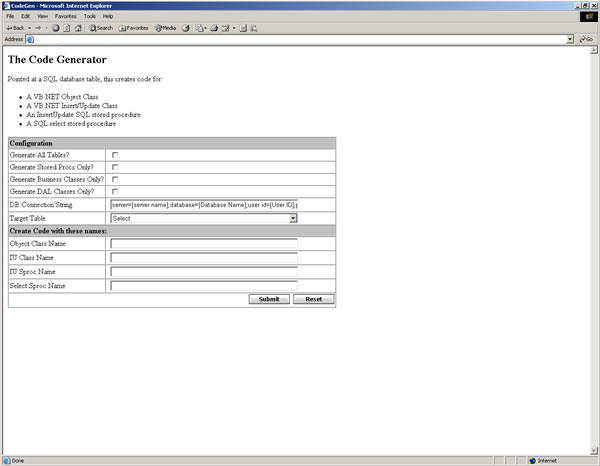
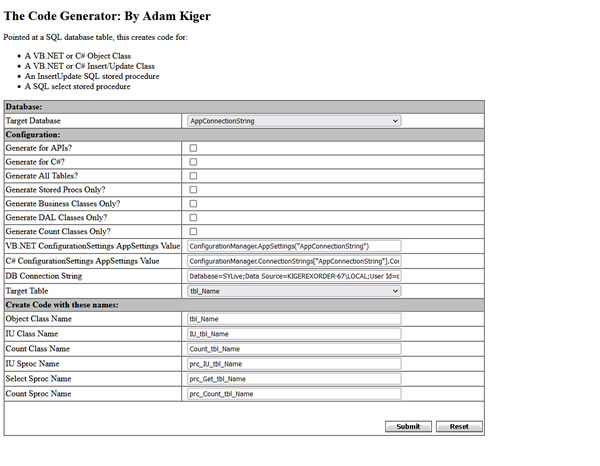
full

diff --git a/README.md b/README.md
@@ -17,6 +17,7 @@ Files that I will be talking about in this article and also included in this pro
 - Web.config
 - Classes.vb
 - IU.vb
+- Count.vb
 - Funcs.vb
 - Default.aspx/Default.aspx.vb
 
@@ -58,9 +59,26 @@ This file is where I keep my generated business classes: This is where I will la
 
 ```vb.net
 Public Class tbl_Name
-    Public ID As String
-    Public FirstName As String
-    Public LastName As String
+
+    Public ID As String 
+    Public FirstName As String 
+    Public LastName As String 
+    Public JSONData As String 
+
+    Public Function xCount() As Integer
+        Dim output As Integer
+        Dim generic As New Count_Database.Count_tbl_Name
+        With generic
+            .ID = ID
+            .FirstName = FirstName
+            .LastName = LastName
+        End With
+
+        generic.ExecuteProc()
+        output = generic.RetVal
+        Return output
+        generic = Nothing
+    End Function
 
     Public Function save() As Integer
         Dim output As Integer
@@ -70,6 +88,7 @@ Public Class tbl_Name
             .FirstName = FirstName
             .LastName = LastName
         End With
+
         generic.ExecuteProc()
         output = generic.RetVal
         Return output
@@ -77,56 +96,83 @@ Public Class tbl_Name
     End Function
 
     Public Function load()
-        Dim sqlConn As New SqlConnection(ConfigurationSettings.AppSettings("AppConnectionString"))
-        Dim sqlCmd As New SqlClient.SqlCommand("[prc_Get_tbl_Name]", sqlConn)
+        Dim sqlConn As New SqlConnection(ConfigurationManager.AppSettings("AppConnectionString"))
+        Dim sqlCmd As New SqlClient.SqlCommand("[dbo].[prc_Get_tbl_Name]", sqlConn)
         With sqlCmd
             .CommandType = CommandType.StoredProcedure
-            .Parameters.Add(New SqlClient.SqlParameter("@ID", SqlDbType.Int)).Value = ID
-            .Parameters.Add(New SqlClient.SqlParameter("@FirstName", SqlDbType.VarChar, 50)).Value = FirstName
-            .Parameters.Add(New SqlClient.SqlParameter("@LastName", SqlDbType.VarChar, 50)).Value = LastName
+            .Parameters.Add(New SqlClient.SqlParameter("@ID",SqlDbType.int)).Value = ID
+            .Parameters.Add(New SqlClient.SqlParameter("@FirstName",SqlDbType.varchar, 50)).Value = FirstName
+            .Parameters.Add(New SqlClient.SqlParameter("@LastName",SqlDbType.varchar, 50)).Value = LastName
         End With
         Dim DataReader As SqlDataReader
         Try
             sqlCmd.Connection.Open()
             DataReader = sqlCmd.ExecuteReader()
+
             Do While DataReader.Read()
-                If Not IsDBNull(DataReader.Item("ID")) Then
-                    ID = DataReader.Item("ID")
+                If Not DataReader.Item("ID") Is Nothing Then
+                     If Not IsDBNull(DataReader.Item("ID")) Then
+                        ID = DataReader.Item("ID")
+                     End If
                 End If
-                If Not IsDBNull(DataReader.Item("FirstName")) Then
-                    FirstName = DataReader.Item("FirstName")
+                If Not DataReader.Item("FirstName") Is Nothing Then
+                     If Not IsDBNull(DataReader.Item("FirstName")) Then
+                        FirstName = DataReader.Item("FirstName")
+                     End If
                 End If
-                If Not IsDBNull(DataReader.Item("LastName")) Then
-                    LastName = DataReader.Item("LastName")
+                If Not DataReader.Item("LastName") Is Nothing Then
+                     If Not IsDBNull(DataReader.Item("LastName")) Then
+                        LastName = DataReader.Item("LastName")
+                     End If
                 End If
             Loop
         Catch ex As System.Exception
             Throw New System.Exception(ex.ToString())
         Finally
             If sqlConn.State = Data.ConnectionState.Open Then
-                sqlConn.Close()
+            sqlConn.Close()
             End If
         End Try
     End Function
 
-End Class
+
+End Class 
+
 ```
 
 I'm sure at some point someone is going to cut this stored procedure down to size, but I have yet to run into a resource problem, even with over 50,000 concurrent sessions.
 
 ```tsql
-CREATE PROCEDURE prc_Get_tbl_Name
+if exists (select * from dbo.sysobjects where id = object_id(N'[dbo].[prc_Get_tbl_Name]') and OBJECTPROPERTY(id, N'IsProcedure') = 1)
+drop procedure [dbo].[prc_Get_tbl_Name]
+GO
+
+SET QUOTED_IDENTIFIER ON
+GO
+SET ANSI_NULLS ON
+GO
+
+CREATE PROCEDURE  [dbo].[prc_Get_tbl_Name]
 @ID AS int = NULL, 
 @FirstName AS varchar(50) = NULL, 
 @LastName AS varchar(50) = NULL 
 AS
 Declare @WhereClause as varchar(8000)
-SELECT @WhereClause = 'SELECT * FROM tbl_Name WHERE 1 = 1 '
-if DataLength(@ID) > 0 SELECT @WhereClause = @WhereClause + ' AND ' SELECT @WhereClause = case @ID when isnull(@ID,'') then @WhereClause + ' ID = ' + CONVERT(varchar,@ID) else @WhereClause end
-if DataLength(@FirstName) > 0 SELECT @WhereClause = @WhereClause + ' AND ' SELECT @WhereClause = case @FirstName when isnull(@FirstName,'') then @WhereClause + ' FirstName = ' + CONVERT(varchar,@FirstName) else @WhereClause end
-if DataLength(@LastName) > 0 SELECT @WhereClause = @WhereClause + ' AND ' SELECT @WhereClause = case @LastName when isnull(@LastName,'') then @WhereClause + ' LastName = ' + CONVERT(varchar,@LastName) else @WhereClause  end
+SELECT  @WhereClause =  'SELECT * FROM [dbo].[tbl_Name] WHERE 1 = 1 '
+if DataLength(@ID) > 0 SELECT @WhereClause = @WhereClause + ' AND '
+SELECT  @WhereClause = case @ID when isnull(@ID,'') then  @WhereClause + ' ID = ' + CONVERT(varchar,@ID) else @WhereClause end
+if DataLength(@FirstName) > 0 SELECT @WhereClause = @WhereClause + ' AND '
+SELECT  @WhereClause = case @FirstName when isnull(@FirstName,'') then  @WhereClause + ' FirstName LIKE ''%' + CONVERT(varchar(50),@FirstName) + '%''' else @WhereClause end
+if DataLength(@LastName) > 0 SELECT @WhereClause = @WhereClause + ' AND '
+SELECT  @WhereClause = case @LastName when isnull(@LastName,'') then  @WhereClause + ' LastName LIKE ''%' + CONVERT(varchar(50),@LastName) + '%''' else @WhereClause end
 exec(@WhereClause)
 GO
+
+SET QUOTED_IDENTIFIER ON
+GO
+SET ANSI_NULLS ON
+GO
+
 ```
 
 ## 3. IU
@@ -134,68 +180,159 @@ GO
 This file is where I keep my generated data access layer classes: When I call the save() function in the generated business class, this class is called. Here is an example of the generated data access layer class and the generated Insert/Update stored procedure it references:
 
 ```vb.net
-Public NotInheritable Class IU_tbl_Name
+Public NotInheritable Class IU_tbl_Name 
     Public RetVal As String
-    Public ID As String
-    Public FirstName As String
-    Public LastName As String
-    Public Function ExecuteProc()
-        Dim sqlConn As New SqlConnection(ConfigurationSettings.AppSettings("AppConnectionString"))
-        Dim sqlCmd As New SqlClient.SqlCommand("[prc_IU_tbl_Name]", sqlConn)
-        Dim output_value As SqlParameter
-        With sqlCmd
-            .CommandType = CommandType.StoredProcedure
-            output_value = .Parameters.Add(New SqlClient.SqlParameter("@RetVal", SqlDbType.Int))
-            output_value.Direction = ParameterDirection.Output
-            .Parameters.Add(New SqlClient.SqlParameter("@ID", SqlDbType.int)).Value = ID
-            .Parameters.Add(New SqlClient.SqlParameter("@FirstName", SqlDbType.varchar, 50)).Value = FirstName
-            .Parameters.Add(New SqlClient.SqlParameter("@LastName", SqlDbType.varchar, 50)).Value = LastName
-        End With
-        Try
-            sqlCmd.Connection.Open()
-            sqlCmd.ExecuteReader()
-        Catch ex As System.Exception
-            Throw New System.Exception(ex.ToString())
-        Finally
-            If IsDBNull(output_value.Value) Then
-                RetVal = ID
-            Else
-                RetVal = output_value.Value
-            End If
-            If sqlConn.State = Data.ConnectionState.Open Then
-                sqlConn.Close()
-            End If
-        End Try
-    End Function
+    Public ID As String 
+    Public FirstName As String 
+    Public LastName As String 
+    Public Function ExecuteProc() 
+	    Dim sqlConn As New SqlConnection(ConfigurationManager.AppSettings("AppConnectionString")) 
+	    Dim sqlCmd As New SqlClient.SqlCommand("[dbo].[prc_IU_tbl_Name]", sqlConn) 
+	    Dim output_value As SqlParameter 
+	    With sqlCmd 
+		    .CommandType = CommandType.StoredProcedure 
+		    output_value = .Parameters.Add(New SqlClient.SqlParameter("@RetVal", SqlDbType.Int)) 
+		    output_value.Direction = ParameterDirection.Output 
+            .Parameters.Add(New SqlClient.SqlParameter("@ID",SqlDbType.int)).Value = ID
+            .Parameters.Add(New SqlClient.SqlParameter("@FirstName",SqlDbType.varchar, 50)).Value = FirstName
+            .Parameters.Add(New SqlClient.SqlParameter("@LastName",SqlDbType.varchar, 50)).Value = LastName
+        End With 
+        Try 
+	        sqlCmd.Connection.Open() 
+	        sqlCmd.ExecuteReader() 
+        Catch ex As System.Exception 
+	        Throw New System.Exception(ex.ToString()) 
+        Finally 
+	        If IsDBNull(output_value.Value) Then 
+		        RetVal = ID 
+	        Else 
+		        RetVal = output_value.Value 
+	        End If 
+	        If sqlConn.State = Data.ConnectionState.Open Then 
+		        sqlConn.Close() 
+	        End If 
+        End Try 
+    End Function 
 End Class
+
+
 ```
 
 ```tsql
-    CREATE PROCEDURE prc_IU_tbl_Name
-        @ID AS int = NULL, 
-        @FirstName AS varchar(50) = NULL, 
-        @LastName AS varchar(50) = NULL, 
-        @RetVal int OUTPUT 
-    AS
-    SET NOCOUNT ON
-    IF EXISTS(SELECT * FROM tbl_Name WHERE ID = @ID) 
-    BEGIN 
-        UPDATE tbl_Name
-        Set FirstName = isNull(@FirstName, FirstName),LastName = isNull(@LastName, LastName)
-        WHERE ID = @ID 
-        Return (0)
-    End
-    ELSE 
-    BEGIN 
-        INSERT INTO tbl_Name
-        (FirstName, LastName)
-        VALUES (IsNull(@FirstName, ''), IsNull(@LastName, ''))
-        SET @RetVal = @@IDENTITY
-    End
-    GO
+if exists (select * from dbo.sysobjects where id = object_id(N'[dbo].[prc_IU_tbl_Name]') and OBJECTPROPERTY(id, N'IsProcedure') = 1)
+drop procedure [dbo].[prc_IU_tbl_Name]
+GO
+
+SET QUOTED_IDENTIFIER ON
+GO
+SET ANSI_NULLS ON
+GO
+
+CREATE PROCEDURE [dbo].[prc_IU_tbl_Name]
+@ID AS int = NULL, 
+@FirstName AS varchar(50) = NULL, 
+@LastName AS varchar(50) = NULL, 
+@RetVal int OUTPUT 
+AS
+SET NOCOUNT ON
+IF EXISTS(SELECT * FROM [dbo].[tbl_Name] WHERE ID = @ID) 
+ BEGIN 
+    UPDATE  [dbo].[tbl_Name]
+    Set FirstName = isNull(@FirstName, FirstName),LastName = isNull(@LastName, LastName)
+    WHERE ID = @ID 
+    Return (0)
+End
+ELSE 
+ BEGIN 
+    INSERT INTO  [dbo].[tbl_Name]
+    (FirstName, LastName)
+    VALUES (IsNull(@FirstName, NULL),IsNull(@LastName, NULL))
+    SET @RetVal = @@IDENTITY
+End
+GO
+
+SET QUOTED_IDENTIFIER ON
+GO
+SET ANSI_NULLS ON
+GO
 ```
 
-## 4. Funcs
+## 4. Count
+
+This file is where I keep my generated counting class: When I call the save() function in the generated business class, this class is called. Here is an example of the generated data access layer class and the generated Insert/Update stored procedure it references:
+
+```vb.net
+Public NotInheritable Class Count_tbl_Name 
+
+    Public RetVal As String
+    Public ID As String 
+    Public FirstName As String 
+    Public LastName As String 
+
+    Public Function ExecuteProc() 
+	    Dim sqlConn As New SqlConnection(ConfigurationManager.AppSettings("AppConnectionString")) 
+	    Dim sqlCmd As New SqlClient.SqlCommand("[dbo].[prc_Count_tbl_Name]", sqlConn) 
+	    With sqlCmd 
+		    .CommandType = CommandType.StoredProcedure 
+            .Parameters.Add(New SqlClient.SqlParameter("@ID",SqlDbType.int)).Value = ID
+            .Parameters.Add(New SqlClient.SqlParameter("@FirstName",SqlDbType.varchar, 50)).Value = FirstName
+            .Parameters.Add(New SqlClient.SqlParameter("@LastName",SqlDbType.varchar, 50)).Value = LastName
+        End With 
+        Dim DataReader As SqlDataReader 
+        Try 
+	        sqlCmd.Connection.Open() 
+	        DataReader = sqlCmd.ExecuteReader() 
+            Do While DataReader.Read()
+                If Not IsDBNull(DataReader.Item("ReturnCount")) Then
+                    RetVal = DataReader.Item("ReturnCount")
+                Else
+                    RetVal = 0
+                End If
+            Loop
+        Catch ex As System.Exception 
+	        Throw New System.Exception(ex.ToString()) 
+        Finally 
+	        If sqlConn.State = Data.ConnectionState.Open Then 
+		        sqlConn.Close() 
+	        End If 
+        End Try 
+    End Function 
+End Class 
+```
+
+```tsql
+if exists (select * from dbo.sysobjects where id = object_id(N'[dbo].[prc_Count_tbl_Name]') and OBJECTPROPERTY(id, N'IsProcedure') = 1)
+drop procedure [dbo].[prc_Count_tbl_Name]
+GO
+
+SET QUOTED_IDENTIFIER ON
+GO
+SET ANSI_NULLS ON
+GO
+
+CREATE PROCEDURE  prc_Count_tbl_Name
+@ID AS int = NULL, 
+@FirstName AS varchar(50) = NULL, 
+@LastName AS varchar(50) = NULL 
+AS
+Declare @WhereClause as varchar(8000)
+SELECT  @WhereClause =  'SELECT Count(*) As ReturnCount FROM [dbo].[tbl_Name] WHERE 1 = 1 '
+if DataLength(@ID) > 0 SELECT @WhereClause = @WhereClause + ' AND '
+SELECT  @WhereClause = case @ID when isnull(@ID,'') then  @WhereClause + ' ID = ' + CONVERT(varchar,@ID) else @WhereClause end
+if DataLength(@FirstName) > 0 SELECT @WhereClause = @WhereClause + ' AND '
+SELECT  @WhereClause = case @FirstName when isnull(@FirstName,'') then  @WhereClause + ' FirstName LIKE ''%' + CONVERT(varchar(50),@FirstName) + '%''' else @WhereClause end
+if DataLength(@LastName) > 0 SELECT @WhereClause = @WhereClause + ' AND '
+SELECT  @WhereClause = case @LastName when isnull(@LastName,'') then  @WhereClause + ' LastName LIKE ''%' + CONVERT(varchar(50),@LastName) + '%''' else @WhereClause end
+exec(@WhereClause)
+GO
+
+SET QUOTED_IDENTIFIER ON
+GO
+SET ANSI_NULLS ON
+GO
+```
+
+## 5. Funcs
 
 The function LoadFromAnyDDLB() below is referenced by the CodeGen application to create a dropdownlist of all the table names contained in the database you pointed the application at. I've used this function for many years to fill my dropdowns. 
 
@@ -261,7 +398,7 @@ Public Function LoadFromAnyDDLB(ByVal vddl As DropDownList,
 End Function
 ```
 
-## 5. CodeGen
+## 6. CodeGen
 
 The UI for the Code Generation Tool contains the following:
 
@@ -313,7 +450,7 @@ The results literal on the page called ltl_CodeResults will be the placeholder t
 ltl_CodeResults.Text = MakeClassesAndIUs(TableName, ClassNameHere, StoredProcName, IU2Use, LoadStoredProcName, Switch)
 ```
 
-## 6. TestOutput
+## 7. TestOutput
 
 Here comes the fun part! Below I will show you examples of how to work with the code you have just generated. As you will see, there is little code one has to write to deal with CRUDing of data in a dynamic web based application or public site.
 
